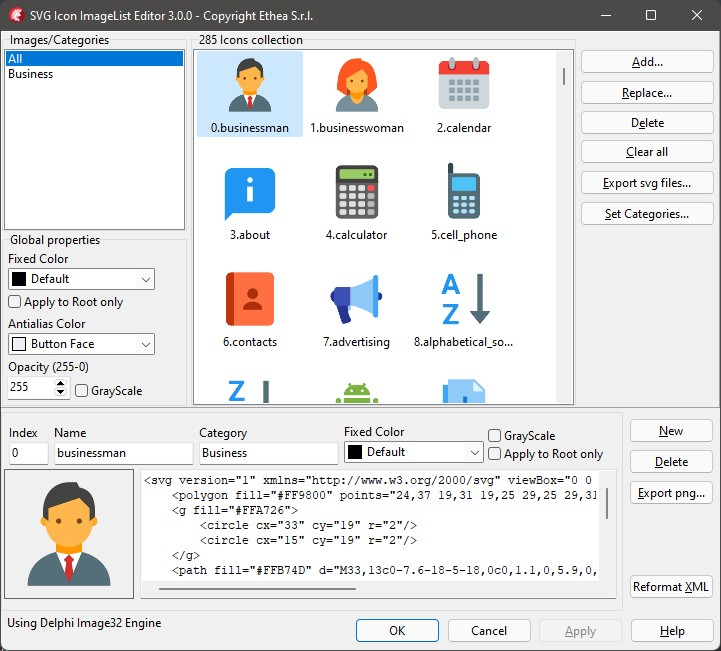
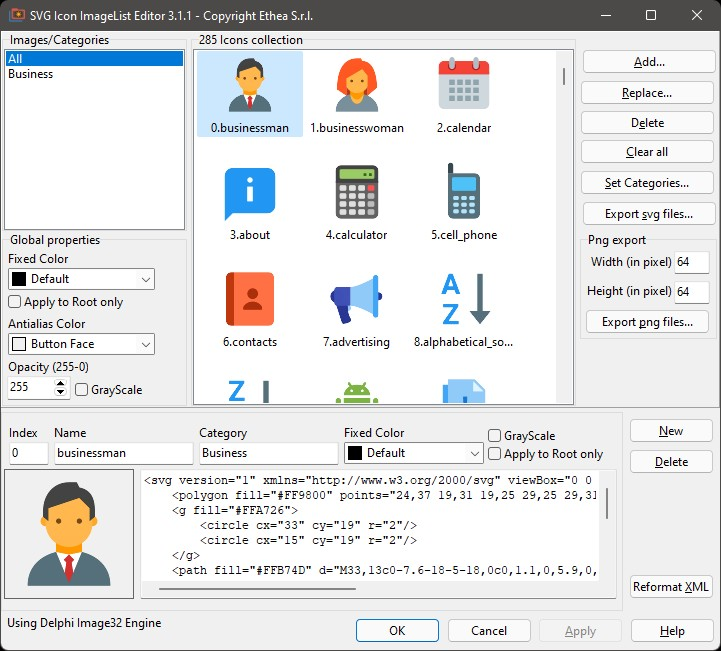
New version 3.1.1 Added Export to png files with sizes into Component Editor (VCL)

diff --git a/README.md b/README.md
@@ -2,7 +2,7 @@
 
 ## Four engines to render SVG (Delphi Image32, Delphi TSVG, Direct2D wrapper or Cairo wrapper) and four components to simplify use of SVG images (resize, fixedcolor, grayscale...)
 
-### Actual official version 3.1.0 (VCL+FMX)
+### Actual official version 3.1.1 (VCL+FMX)
 
 | Component | Description |
 | - | - |
@@ -75,6 +75,10 @@ You can use [SVG Shell Extensions](https://github.com/EtheaDev/SVGShellExtension
 Follow the [guide in Wiki section](https://github.com/EtheaDev/SVGIconImageList/wiki) to known how to use those components to modernize your Delphi VCL or FMX Windows applications scalable, colored and beautiful with few lines of code.
 
 ### RELEASE NOTES
+05 Nov 2021: version 3.1.1 (VCL+FMX)
+- Fixed Image32 drawing problem in FMX
+- Added Export to multiple png files to Component Editor
+
 31 Oct 2021: version 3.1.0 (VCL+FMX)
 - Updated Image32 library to 3.4.1 version
 - Added Skia4Delphi engine (not complete)
